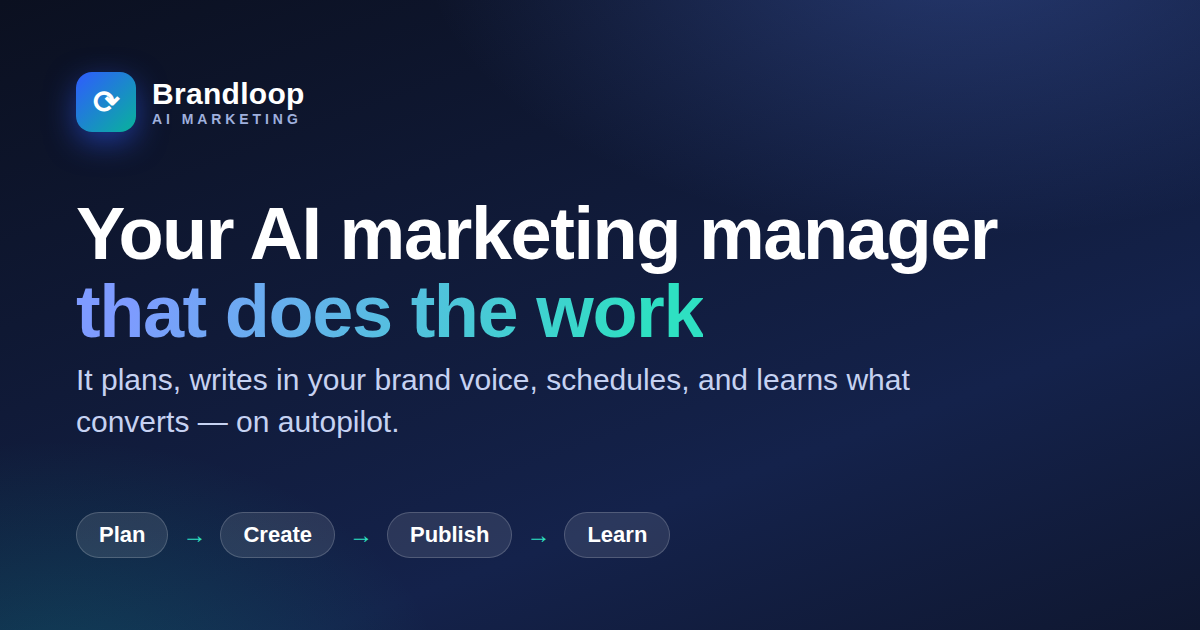
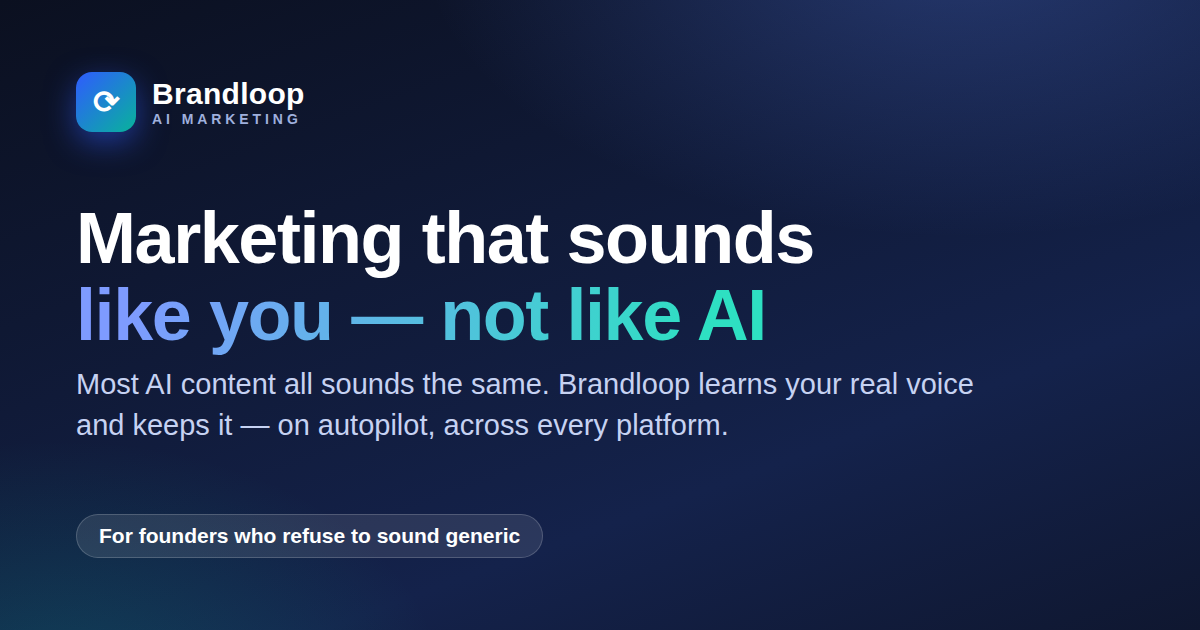
refine(brandloop): 据竞对调研收窄定位——从'会干活'(已被占)转向'听起来像你,不像AI'
按铁律先做竞对调研:全行业第一痛点='AI内容千篇一律',连Jasper品牌口吻都没解决;
'会替你干完活'差异化已被BlogBurst/Apaya占走。故修C缺点:

- Hero/标题/meta/OG:主张改为'Marketing that sounds like you — not like AI'
- 痛点区:重写为'AI让大家都一个味'+'独特声音=3x互动/92%信任'
- 差异化表:首行改为'听起来像你 vs AI beige'+'口吻数据可复利'护城河,去重
- 适用对象:收窄到'自己即品牌门面的创始人'(build-in-public/顾问/创作者/小工作室)
- FAQ:首问改为'会不会像别的AI一样千篇一律'正面回应
- 重生成 og.png 对齐新主张;CLAUDE.md 更新为收窄后的可防御定位
- Playwright 渲染验证通过、零报错

Claude-Session: https://claude.ai/code/session_013RhYdMrQBBgT8mYwgjMfPm

Changed region(s): [[0.0617, 0.3317, 0.8325, 0.6937], [0.0617, 0.8143, 0.555, 0.8746]]

diff --git a/public/index.html b/public/index.html
@@ -3,11 +3,11 @@
 <head>
 <meta charset="UTF-8" />
 <meta name="viewport" content="width=device-width, initial-scale=1.0" />
-<title>Brandloop · Your AI marketing manager that does the work</title>
-<meta name="description" content="Brandloop is an AI marketing manager for founders and small teams. It plans your content, writes in your brand voice, schedules it, and learns from what converts — so you can stop spending hours every week on marketing." />
-<meta name="keywords" content="AI marketing, AI social media manager, content automation, AI agent, marketing for founders, brand voice AI, content calendar" />
-<meta property="og:title" content="Brandloop · Your AI marketing manager that does the work" />
-<meta property="og:description" content="Not another AI writer. An agent that plans, creates on-brand, schedules, and learns what converts — on autopilot." />
+<title>Brandloop · Marketing that sounds like you — not like AI</title>
+<meta name="description" content="Brandloop is the AI marketing manager for founder-led brands. It learns your real voice, writes content that doesn't sound AI-generated, publishes it, and gets more like you every week — so your marketing scales without sounding like everyone else's." />
+<meta name="keywords" content="authentic AI marketing, brand voice AI, sounds like you, AI content not generic, founder personal brand, AI social media manager" />
+<meta property="og:title" content="Brandloop · Marketing that sounds like you — not like AI" />
+<meta property="og:description" content="Most AI content all sounds the same. Brandloop learns your real voice and keeps it — on autopilot, across every platform. Built for founders who refuse to sound generic." />
 <meta property="og:type" content="website" />
 <meta property="og:url" content="https://searchfurture.tuoqiantu.workers.dev/" />
 <meta property="og:image" content="https://searchfurture.tuoqiantu.workers.dev/og.png" />
@@ -48,21 +48,21 @@
 <section class="hero">
   <div class="wrap hero-grid">
     <div>
-      <span class="eyebrow">⟳ The AI agent that does the marketing, not just the writing</span>
-      <h1>Your AI marketing manager<br><span class="grad">that does the work</span></h1>
+      <span class="eyebrow">⟳ For founders who refuse to sound like everyone else</span>
+      <h1>Marketing that sounds<br><span class="grad">like you — not like AI</span></h1>
       <p class="lead">
-        Founders waste hours every week on content. Generic AI writers only hand you words —
-        you still plan, post, and guess what works. <strong>Brandloop</strong> plans your content,
-        writes in your brand voice, schedules it, and <strong>learns from what converts</strong> — on autopilot.
+        Every AI tool produces the same beige "unlock the power of…" content. <strong>Brandloop</strong>
+        learns your <strong>real</strong> voice, writes content that doesn't read AI-generated, publishes it
+        across your platforms, and gets <strong>more like you every week</strong> — on autopilot, but unmistakably yours.
       </p>
       <div class="hero-actions">
         <a href="#try" class="btn btn-primary">See it on your business →</a>
         <a href="#waitlist" class="btn btn-ghost">Join the early-access waitlist</a>
       </div>
       <div class="hero-trust">
-        <div class="t"><b>3–10 hrs</b><span>a week SMBs lose to social marketing</span></div>
-        <div class="t"><b>11.4 hrs</b><span>a week marketers save with AI</span></div>
-        <div class="t"><b>Autopilot</b><span>it does the work, you approve</span></div>
+        <div class="t"><b>3×</b><span>more engagement from a distinctive voice</span></div>
+        <div class="t"><b>92%</b><span>of brand trust comes from authenticity</span></div>
+        <div class="t"><b>Sounds like you</b><span>your voice, compounding weekly — not AI slop</span></div>
       </div>
     </div>
 
@@ -92,8 +92,8 @@
   <div class="wrap">
     <div class="section-head">
       <span class="eyebrow alt">The problem</span>
-      <h2>Marketing eats the time you don't have</h2>
-      <p>You started a business to build a product — not to become a part-time social media manager. Yet the content never stops.</p>
+      <h2>AI gave everyone a marketing team — and made them all sound identical</h2>
+      <p>The content never stops, and the easy fix makes it worse: generic AI turns your brand into the same beige feed as everyone else's. Time pressure pushes you to it; sameness is the price.</p>
     </div>
     <div class="pain-grid">
       <div class="pain-card reveal">
@@ -107,14 +107,14 @@
         <p>Writing captions, finding visuals, and editing eats roughly half of all social time.</p>
       </div>
       <div class="pain-card reveal">
-        <div class="big">AI</div>
-        <h4>...only writes words</h4>
-        <p>Generic AI writers hand you a draft. You still plan, adapt per platform, schedule, and measure.</p>
+        <div class="big">"same"</div>
+        <h4>AI made it all generic</h4>
+        <p>The #1 complaint about AI content in 2026: "it all sounds the same." Beige captions kill the one thing that earns trust — your voice.</p>
       </div>
       <div class="pain-card reveal">
-        <div class="big">$$$</div>
-        <h4>Agencies are pricey</h4>
-        <p>Hiring it out costs thousands a month and still needs your time to brief and review.</p>
+        <div class="big">3×</div>
+        <h4>Voice is the moat</h4>
+        <p>A distinctive voice drives ~3× the engagement of generic posts. In an AI-flooded feed, sounding like <em>you</em> is the advantage.</p>
       </div>
     </div>
   </div>
@@ -190,8 +190,8 @@
   <div class="wrap">
     <div class="section-head">
       <span class="eyebrow">Why Brandloop</span>
-      <h2>Not an AI writer. Not an agency. Both, without the cost.</h2>
-      <p>The moat isn't the model — it's owning your brand's voice and performance data over time.</p>
+      <h2>Everyone else writes "content." Brandloop writes like you.</h2>
+      <p>When every tool uses the same models, the words commoditize. Your moat is your voice — and the per-account voice + performance data that compounds the longer Brandloop runs.</p>
     </div>
     <div class="diff-table">
       <div class="diff-row head">
@@ -201,22 +201,22 @@
         <div>Hire an agency / DIY</div>
       </div>
       <div class="diff-row">
-        <div class="rowlabel">Does the actual work</div>
+        <div class="rowlabel">Sounds genuinely like you</div>
+        <div class="us yes">✓ Your real voice</div>
+        <div class="no">✕ "AI beige"</div>
+        <div class="mid">△ If you brief well</div>
+      </div>
+      <div class="diff-row">
+        <div class="rowlabel">Gets more like you over time</div>
+        <div class="us yes">✓ Voice data compounds</div>
+        <div class="no">✕ Stateless, resets</div>
+        <div class="mid">△ Depends on the person</div>
+      </div>
+      <div class="diff-row">
+        <div class="rowlabel">Actually does the work</div>
         <div class="us yes">✓ Plans + ships</div>
         <div class="no">✕ Drafts only</div>
         <div class="mid">△ You brief &amp; review</div>
-      </div>
-      <div class="diff-row">
-        <div class="rowlabel">Sounds like your brand</div>
-        <div class="us yes">✓ Learns your voice</div>
-        <div class="no">✕ Generic</div>
-        <div class="mid">△ Eventually</div>
-      </div>
-      <div class="diff-row">
-        <div class="rowlabel">Gets smarter over time</div>
-        <div class="us yes">✓ Learning loop</div>
-        <div class="no">✕ Stateless</div>
-        <div class="mid">△ Depends on people</div>
       </div>
       <div class="diff-row">
         <div class="rowlabel">Cost</div>
@@ -239,14 +239,14 @@
   <div class="wrap">
     <div class="section-head">
       <span class="eyebrow">Who it's for</span>
-      <h2>Built for people who'd rather build</h2>
-      <p>If marketing is the thing you keep pushing to next week — this is for you.</p>
+      <h2>Built for founder-led brands — where the voice <em>is</em> the business</h2>
+      <p>If you're the face of your company, generic AI isn't an option. Your audience follows <strong>you</strong>. These are the people Brandloop is for:</p>
     </div>
     <div class="aud-grid">
-      <div class="aud reveal"><div class="ic">🚀</div><h4>Solo founders</h4><p>You are the product, sales, and support team. Hand marketing to an agent that never drops the ball.</p></div>
-      <div class="aud reveal"><div class="ic">🏢</div><h4>Small teams &amp; SMBs</h4><p>No budget for a full-time marketer. Get the output of one for the price of a tool.</p></div>
-      <div class="aud reveal"><div class="ic">🧑💻</div><h4>Indie hackers</h4><p>Ship in public consistently without the daily "what do I post" tax.</p></div>
-      <div class="aud reveal"><div class="ic">🎯</div><h4>Agencies</h4><p>Run many brands on autopilot, each with its own voice and learning loop.</p></div>
+      <div class="aud reveal"><div class="ic">🧑💻</div><h4>Founders building in public</h4><p>Your personal brand drives the company. Show up daily in your voice without it eating your build time.</p></div>
+      <div class="aud reveal"><div class="ic">🚀</div><h4>Solo &amp; bootstrapped</h4><p>No marketing hire, no agency budget — but you refuse to post beige AI filler under your name.</p></div>
+      <div class="aud reveal"><div class="ic">🎙️</div><h4>Consultants &amp; creators</h4><p>You sell expertise and trust. Sounding like everyone else's ChatGPT quietly erodes both.</p></div>
+      <div class="aud reveal"><div class="ic">🎯</div><h4>Small studios &amp; agencies</h4><p>Run several founder brands at once — each with its own distinct, learned voice.</p></div>
     </div>
   </div>
 </section>
@@ -387,12 +387,12 @@
     </div>
     <div class="features-grid">
       <div class="feature reveal">
-        <h3>Is this just another AI writer?</h3>
-        <p>No. Writers give you drafts. Brandloop plans the calendar, writes on-brand, schedules, and learns from results — it owns the workflow, not just the text.</p>
+        <h3>Won't it sound generic like every other AI tool?</h3>
+        <p>That's the exact problem we exist to fix. Most tools bolt a "brand voice" toggle onto a generic model. Brandloop builds a per-account voice model from your real writing and refines it from your edits and results — the longer you use it, the less it sounds like AI and the more it sounds like you.</p>
       </div>
       <div class="feature reveal">
-        <h3>Will it actually sound like me?</h3>
-        <p>That's the core. The Brand Voice Engine learns from your site and past posts, and you can correct it — the more you use it, the closer it gets.</p>
+        <h3>So it's not just another AI writer?</h3>
+        <p>Right. Writers hand you a generic draft and stop. Brandloop owns the loop — learns your voice, plans, writes, publishes, and learns from results — so the output is both done <em>and</em> unmistakably yours.</p>
       </div>
       <div class="feature reveal">
         <h3>Which platforms?</h3>
@@ -420,7 +420,7 @@
     <div class="footer-top">
       <div>
         <div class="brand"><span class="logo">⟳</span><span>Brandloop</span></div>
-        <p>The AI marketing manager that plans, creates on-brand, schedules, and learns what converts — so founders can get back to building.</p>
+        <p>The AI marketing manager for founder-led brands. It learns your real voice and keeps your content sounding like you — not like AI — on autopilot, across every platform.</p>
       </div>
       <div>
         <h5>Product</h5>

diff --git a/CLAUDE.md b/CLAUDE.md
@@ -25,12 +25,15 @@
 方向：**全球独立 AI 产品（卖给海外、赚美元）**，彻底绕开中国巨头。
 风险姿态：均衡——**先用英文 waitlist 落地页验证需求，再投入开发**。
 
-**Brandloop = "会替你干完活"的 AI 营销经理**：自动规划内容 → 按品牌口吻创作 →
-排期发布 → 从转化数据中学习（plan → create → publish → learn 的闭环）。
-不是又一个只写文案的 AI（红海），而是完成整段工作流的 Agent。
-- **护城河**：每账号沉淀的"品牌口吻 × 效果"专有数据，越用越懂你，难复制。
-- **客户**：没空做营销的全球创始人 / 小团队 / indie hacker / 代运营机构（英文、自助付费）。
+**Brandloop = "听起来像你、不像 AI"的 AI 营销经理**（定位经竞对调研收窄而来）。
+全行业第一痛点 = "AI 内容千篇一律、一股 AI 味"（连 Jasper 的 brand voice 都没解决）；
+"会替你干完活的闭环"差异化已被 BlogBurst/Apaya 占走。故把楔子从"会干活"换到
+**"真的是你的口吻"**——以"反 AI 千篇一律 + 每账号专属口吻数据越用越像你（可复利专有数据护城河）"为核心。
+- **闭环仍在**：plan → create → publish → learn，但卖点是 authenticity，不是"什么都干"。
+- **收窄 ICP**：**自己就是品牌门面的创始人**（个人品牌驱动 / 顾问 / 创作者 / 小工作室），
+  对"像不像我"零容忍，通用 AI 直接出局。
 - **当前站点目标**：waitlist 验证（注册转化率 = 需求信号），未上线真实产品。
+- 注：通用"AI 营销 Agent"定位是红海(BlogBurst/Jasper/Predis)；本定位为收窄后的可防御版。
 
 > 注：本仓库历史上曾做过"通税云/出口退税"方向，已废弃——勿再回到税务/外贸/储能等老本行。
 